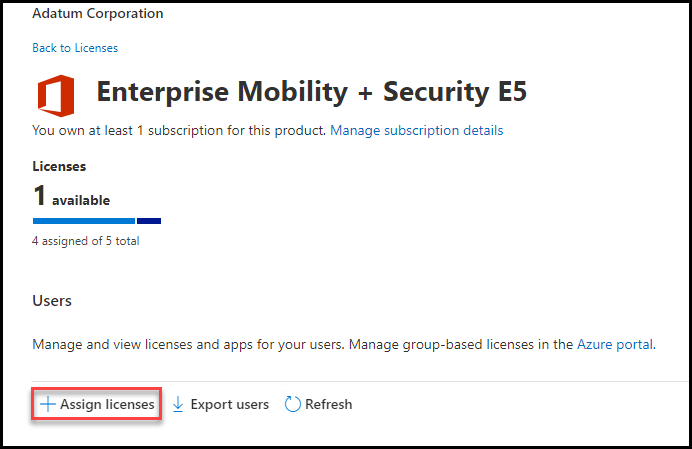
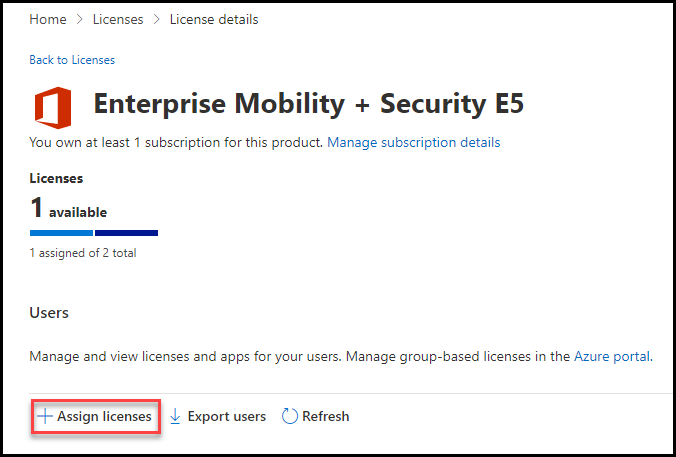
update_LAB_AK_10_Lab9_Ex1_Device_Management

diff --git a/Instructions/Labs/LAB_AK_10_Lab9_Ex1_Device_Management.md b/Instructions/Labs/LAB_AK_10_Lab9_Ex1_Device_Management.md
@@ -16,19 +16,19 @@ In this task you will verify that Adatum has installed the Enterprise Mobility +
 
 	![](images/dm1.png)
 
-4. On the **Licenses** page, note the number of licenses that are available with your tenant and the number that have already been assigned to user accounts for each of the available licenses. In your VM lab environment, 5 **Enterprise Mobility + Security E5** licenses were assigned to your tenant, and your lab hosting provider already assigned a license to the 4 pre-existing user accounts. <br/>
+4. On the **Licenses** page, note the number of licenses that are available with your tenant and the number that have already been assigned to user accounts for each of the available licenses. In your VM lab environment, 2 **Enterprise Mobility + Security E5** licenses were assigned to your tenant, and your lab hosting provider already assigned a license to the 1 pre-existing user account. <br/>
 
-   Note how the **Office 365 E5** & **Microsoft 365 Business Premium** licenses also available and assigned with your tenant. 
+   Note how the **Office 365 E5** license also available and assigned with your tenant. 
    
    In this task you will assign Holly an **Enterprise Mobility + Security E5** license. In the list of licenses, select **Enterprise Mobility + Security E5**.<br/>
 
 	![](images/dm2.png)
 
-5. In the **Enterprise Mobility + Security E5** page, under the list of users, verify that all 4 of the pre-existing user accounts provided by your lab hosting provider have been assigned a license. <br/>
+5. In the **Enterprise Mobility + Security E5** page, under the list of users, verify that the user **Jhoni** has been assigned a license. <br/>
 
 	![](images/dm3.png)
 
-   The one user who was not assigned an **Enterprise Mobility + Security E5** license is Adatum's Enterprise Administrator, You will now assign her an Enterprise Mobility + Security E5 license. <br/>
+   The one user need to assigned an **Enterprise Mobility + Security E5** license is Adatum's Enterprise Administrator, You will now assign her an Enterprise Mobility + Security E5 license. <br/>
 
     To assign Holly a license, select **+Assign licenses**, which appears in the menu bar above the list of users.
 
